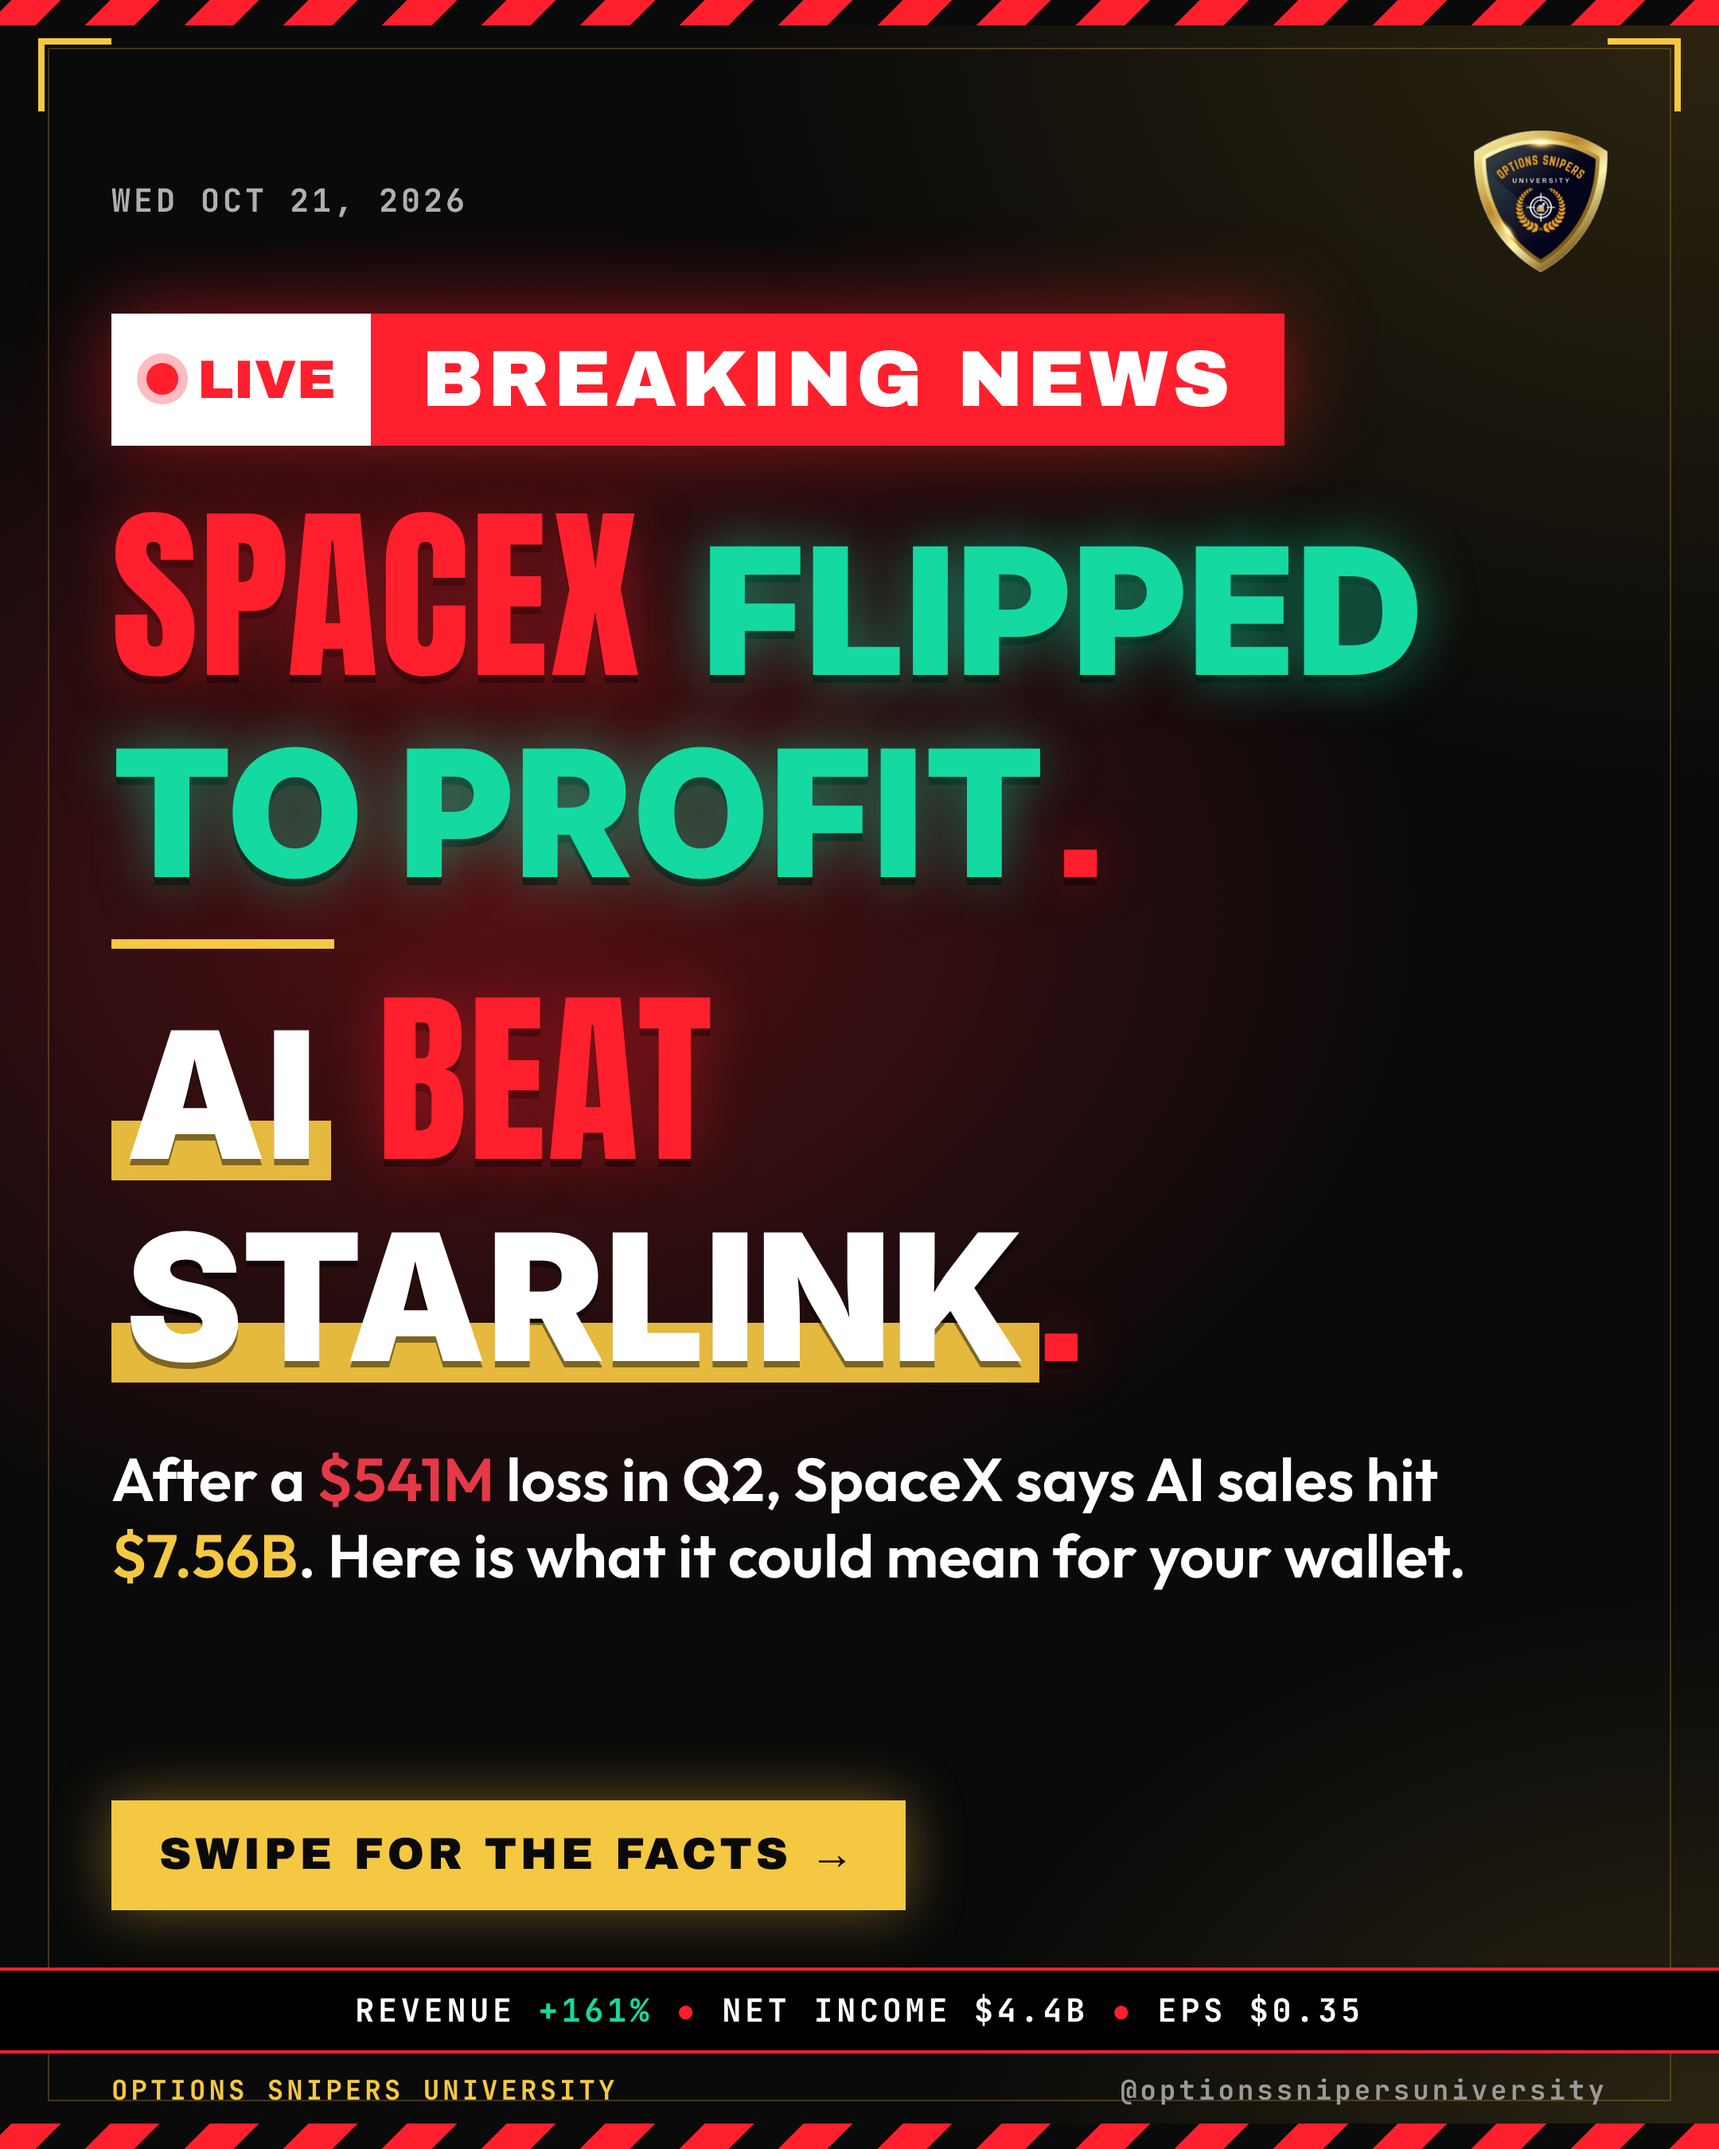
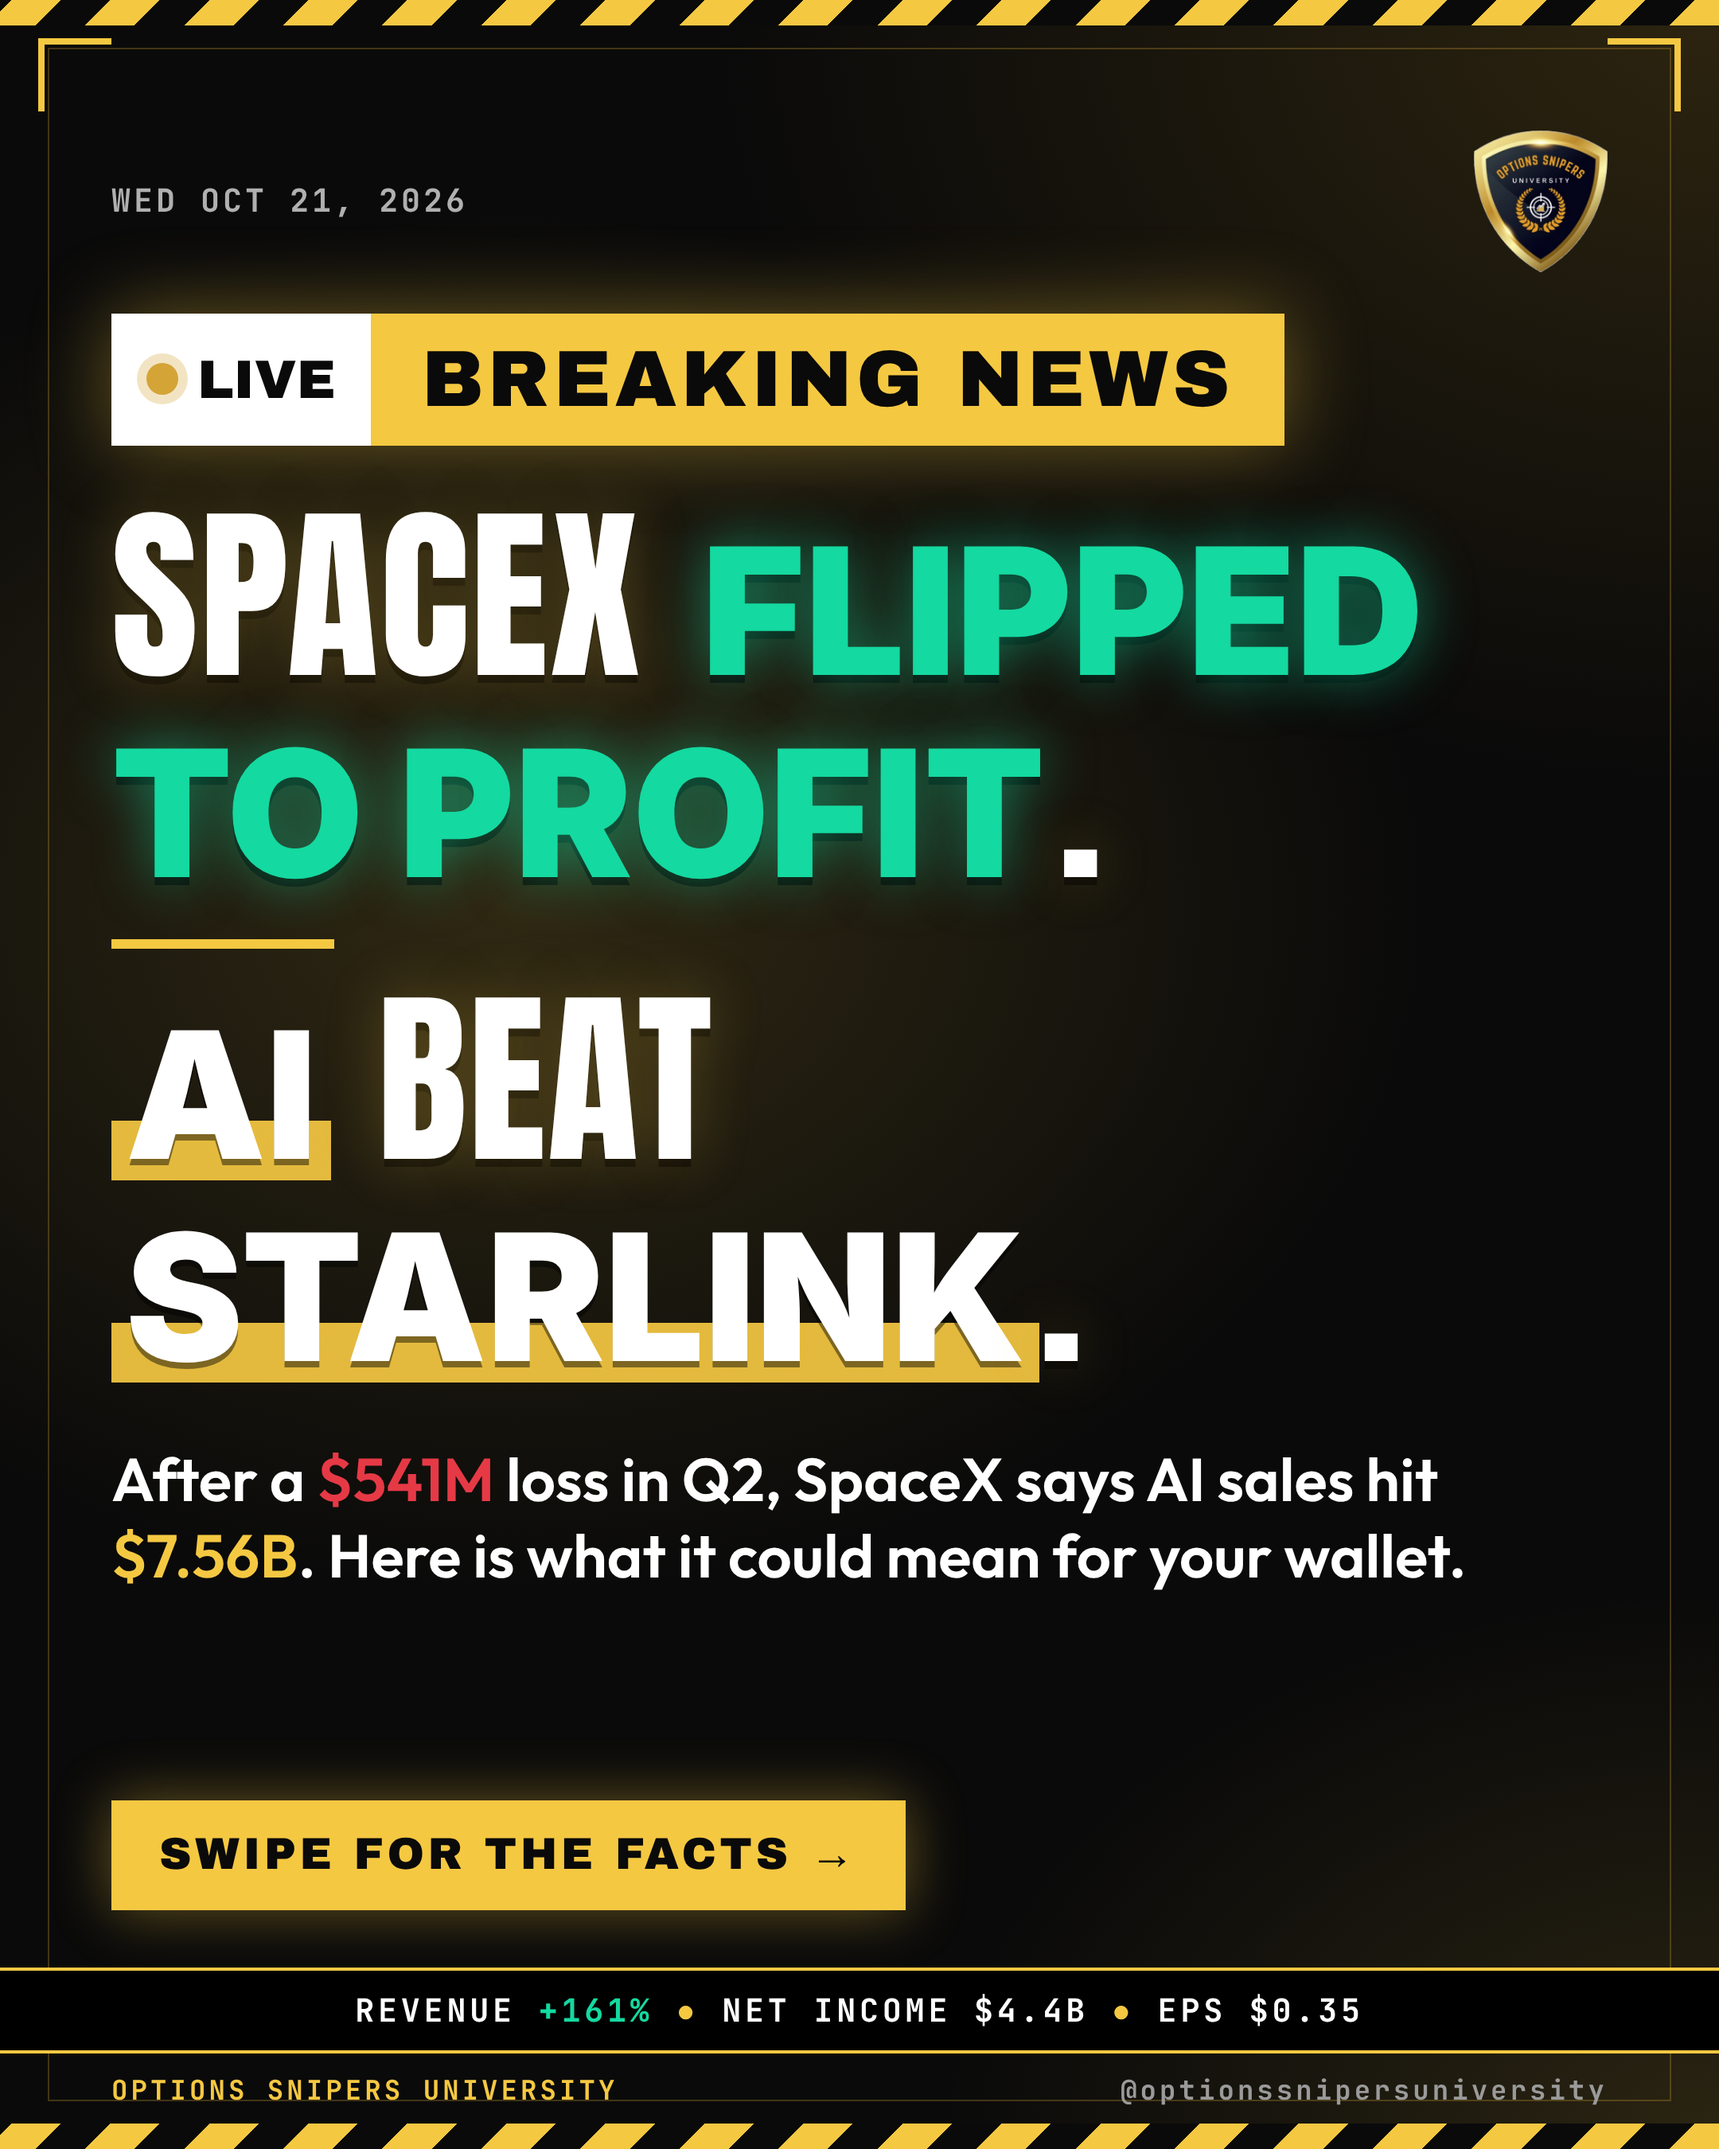
Branded gold slide 2, CTA story frame, render-story cta mode
Claude-Session: https://claude.ai/code/session_01SQxdha4vQ2P1WsYBzv11aq

diff --git a/news-kit/title.html b/news-kit/title.html
@@ -5,11 +5,11 @@
 @font-face{font-family:'Inter';font-weight:900;src:url(fonts/inter-latin-900-normal.woff2)}
 @font-face{font-family:'Outfit';font-weight:600;src:url(fonts/outfit-latin-600-normal.woff2)}
 @font-face{font-family:'JetBrains Mono';font-weight:700;src:url(fonts/jetbrains-mono-latin-700-normal.woff2)}
-:root{--bg:#0A0A0A;--gold:#F5C842;--red:#FF1F2D}
+:root{--bg:#0A0A0A;--gold:#F5C842;--red:#F5C842}
 *{margin:0;padding:0;box-sizing:border-box}
 html,body{background:var(--bg);width:1080px;height:1350px;overflow:hidden}
 body{position:relative;padding:64px 70px 0;color:#fff;
- background:radial-gradient(ellipse 820px 620px at 30% 42%,rgba(255,31,45,.30),transparent 70%),radial-gradient(ellipse 700px 500px at 100% 100%,rgba(245,200,66,.14),transparent 70%),radial-gradient(ellipse 900px 700px at 100% 0%,rgba(60,48,18,.7),transparent 70%),var(--bg)}
+ background:radial-gradient(ellipse 820px 620px at 30% 42%,rgba(245,200,66,.16),transparent 70%),radial-gradient(ellipse 700px 500px at 100% 100%,rgba(245,200,66,.14),transparent 70%),radial-gradient(ellipse 900px 700px at 100% 0%,rgba(60,48,18,.7),transparent 70%),var(--bg)}
 .stripes{position:absolute;left:0;right:0;top:0;height:16px;background:repeating-linear-gradient(-45deg,var(--red) 0 22px,#0A0A0A 22px 44px)}
 .stripes.b{top:auto;bottom:0}
 .frame{position:absolute;inset:30px;border:1px solid rgba(212,164,55,.28)}
@@ -19,12 +19,12 @@ body{position:relative;padding:64px 70px 0;color:#fff;
 .top{display:flex;justify-content:space-between;align-items:center;margin-top:18px}
 .date{font-family:'JetBrains Mono';font-weight:700;font-size:20px;color:#b0b0b0;letter-spacing:.1em}
 .shield{width:84px}
-.brk{margin-top:26px;display:flex;align-items:stretch;width:max-content;box-shadow:0 0 50px rgba(255,31,45,.5)}
-.brk .live{background:#fff;color:var(--red);font-family:'Archivo Black';font-size:34px;padding:16px 22px;display:flex;align-items:center;gap:12px}
-.brk .live i{width:20px;height:20px;border-radius:50%;background:var(--red);display:block;box-shadow:0 0 0 6px rgba(255,31,45,.3)}
-.brk .t{background:var(--red);font-family:'Archivo Black';font-size:50px;letter-spacing:.05em;padding:14px 32px;line-height:1.1}
+.brk{margin-top:26px;display:flex;align-items:stretch;width:max-content;box-shadow:0 0 50px rgba(245,200,66,.4)}
+.brk .live{background:#fff;color:#0A0A0A;font-family:'Archivo Black';font-size:34px;padding:16px 22px;display:flex;align-items:center;gap:12px}
+.brk .live i{width:20px;height:20px;border-radius:50%;background:#D4A437;display:block;box-shadow:0 0 0 6px rgba(212,164,55,.3)}
+.brk .t{background:var(--gold);color:#0A0A0A;font-family:'Archivo Black';font-size:50px;letter-spacing:.05em;padding:14px 32px;line-height:1.1}
 .hl{margin-top:34px;position:relative}
-.s{font-family:'Anton';font-size:118px;line-height:1.02;color:var(--red);text-transform:uppercase;letter-spacing:1px;text-shadow:0 0 36px rgba(255,31,45,.4),0 5px 0 rgba(0,0,0,.5)}
+.s{font-family:'Anton';font-size:118px;line-height:1.02;color:#fff;text-transform:uppercase;letter-spacing:1px;text-shadow:0 0 36px rgba(245,200,66,.25),0 5px 0 rgba(0,0,0,.5)}
 .s em{font-family:'Inter';font-style:normal;font-weight:900;color:#fff;text-transform:uppercase;letter-spacing:0;font-size:.94em;padding:0 .08em;background:linear-gradient(transparent 62%,rgba(245,200,66,.92) 62% 90%,transparent 90%);text-shadow:0 4px 0 rgba(0,0,0,.45)}
 .s em.g{color:#14D9A0;background:none;text-shadow:0 0 34px rgba(20,217,160,.55),0 5px 0 rgba(0,0,0,.6)}
 .s em.rd{color:#E63946;background:none;text-shadow:0 0 34px rgba(230,57,70,.5),0 5px 0 rgba(0,0,0,.6)}
@@ -51,10 +51,10 @@ body{position:relative;padding:64px 70px 0;color:#fff;
    lines: 2 SENTENCES (each starts on its own line), ALL CAPS, about 3-6 words each. Wrap the 1-2 most important words of each sentence in *asterisks* (bold white serif with gold highlight); use +plus+ for positive words/numbers (green) and ~tildes~ for negative (red). In ticker/sub, +N% shows green and -N% red.
    ticker: 2-3 short verified facts separated by " | ". sub: one line, wrap the key number in <b>. Everything must be true to the sources. */
 const T={
- date:"THU OCT 15, 2026",
- lines:["THE *AI* TRADE ~SLID~.", "YOUR *INDEX FUNDS* FELT IT."],
- ticker:"NASDAQ -1.9% | S&P 500 -1.1% | INFLATION 3.7%",
- sub:"Worst day for stocks since July. Inflation ran <b>3.7%</b> a year. Here is what it could mean for your wallet."
+ date:"WED OCT 21, 2026",
+ lines:["SPACEX +FLIPPED TO PROFIT+.", "*AI* BEAT *STARLINK*."],
+ ticker:"REVENUE +161% | NET INCOME $4.4B | EPS $0.35",
+ sub:"After a <b style=\"color:#E63946\">$541M</b> loss in Q2, SpaceX says AI sales hit <b>$7.56B</b>. Here is what it could mean for your wallet."
 };
 date.textContent=T.date;
 hl.innerHTML=T.lines.map(l=>'<div class="s">'+l.replace(/\*(.+?)\*/g,'<em>$1</em>').replace(/\+(.+?)\+/g,'<em class="g">$1</em>').replace(/~(.+?)~/g,'<em class="rd">$1</em>')+'</div>').join('<div class="sep"></div>');

diff --git a/news-kit/render-story.js b/news-kit/render-story.js
@@ -1,4 +1,4 @@
-// usage: node render-story.js <cover|title|news> out.png  -> 1080x1920 full-bleed 9:16 IG story (no SWIPE tag, safe zones: top 250px / bottom 270px kept free of key content)
+// usage: node render-story.js <cover|title|news|cta> out.png [cta-variant] out.png  -> 1080x1920 full-bleed 9:16 IG story (no SWIPE tag, safe zones: top 250px / bottom 270px kept free of key content)
 const { chromium } = require('playwright'); const path = require('path');
 const kind = process.argv[2], out = process.argv[3];
 const CSS = {
@@ -7,10 +7,12 @@ cover:`html,body{height:1920px;background:#05060d}#bg{top:570px;height:1350px}
 .top{top:270px}.logoWrap{top:400px}.hl{top:880px}.sub{top:1310px}.swipe{display:none}.foot{bottom:270px}`,
 title:`html,body{height:1920px}body{padding-top:300px}.hl{margin-top:70px}.sub{margin-top:50px}.swipe{display:none}
 .ticker{bottom:330px}.foot{bottom:296px}.bl,.br{bottom:24px}`,
+cta:`html,body{height:1920px}body{padding-top:310px}.disc{bottom:346px}.foot{bottom:306px}`,
 news:`html,body{height:1920px}body{padding-top:290px}h1{font-size:88px;margin-top:40px}.sub{margin-top:26px}.row{margin-top:44px}.what{margin-top:40px;font-size:31px}.box{margin-top:40px;padding:28px 32px}.box li{font-size:31px;gap:14px}.box ul{gap:16px}
 .disc{bottom:346px}.foot{bottom:306px}`};
 (async()=>{const b=await chromium.launch({executablePath:'/opt/pw-browsers/chromium',args:['--no-sandbox']});
 const p=await b.newPage({viewport:{width:1080,height:1920},deviceScaleFactor:1});
 await p.goto('file://'+path.join(__dirname,kind==='news'?'news.html':kind+'.html'));await p.evaluate(()=>document.fonts.ready);
+if(kind==='cta')await p.evaluate(v=>window.setVariant(v),parseInt(process.argv[4]||'1'));
 await p.addStyleTag({content:CSS[kind]});await p.waitForTimeout(300);
 await p.screenshot({path:out});await b.close();})();
